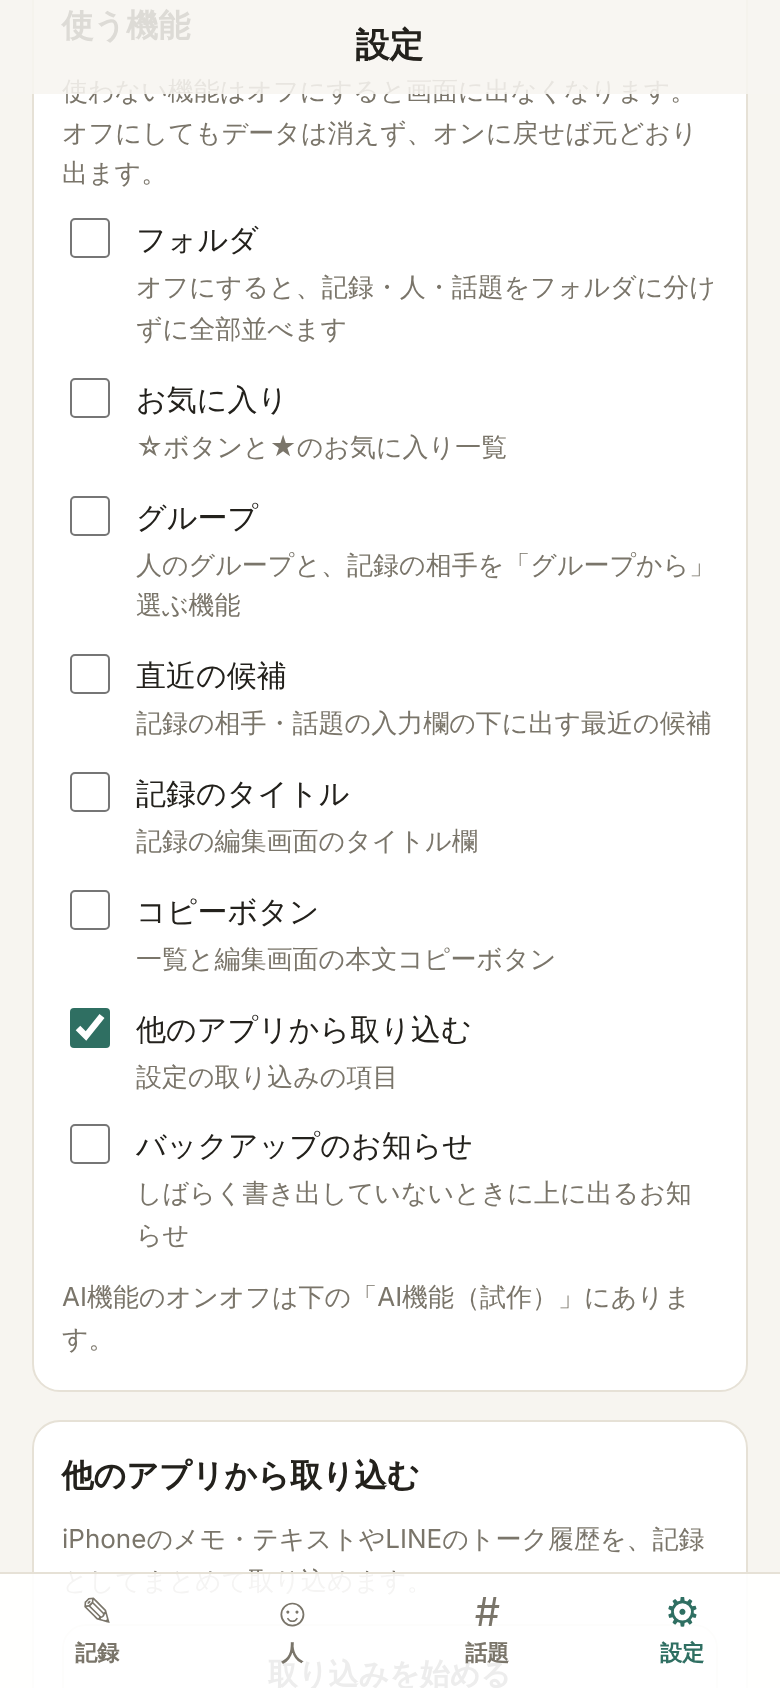
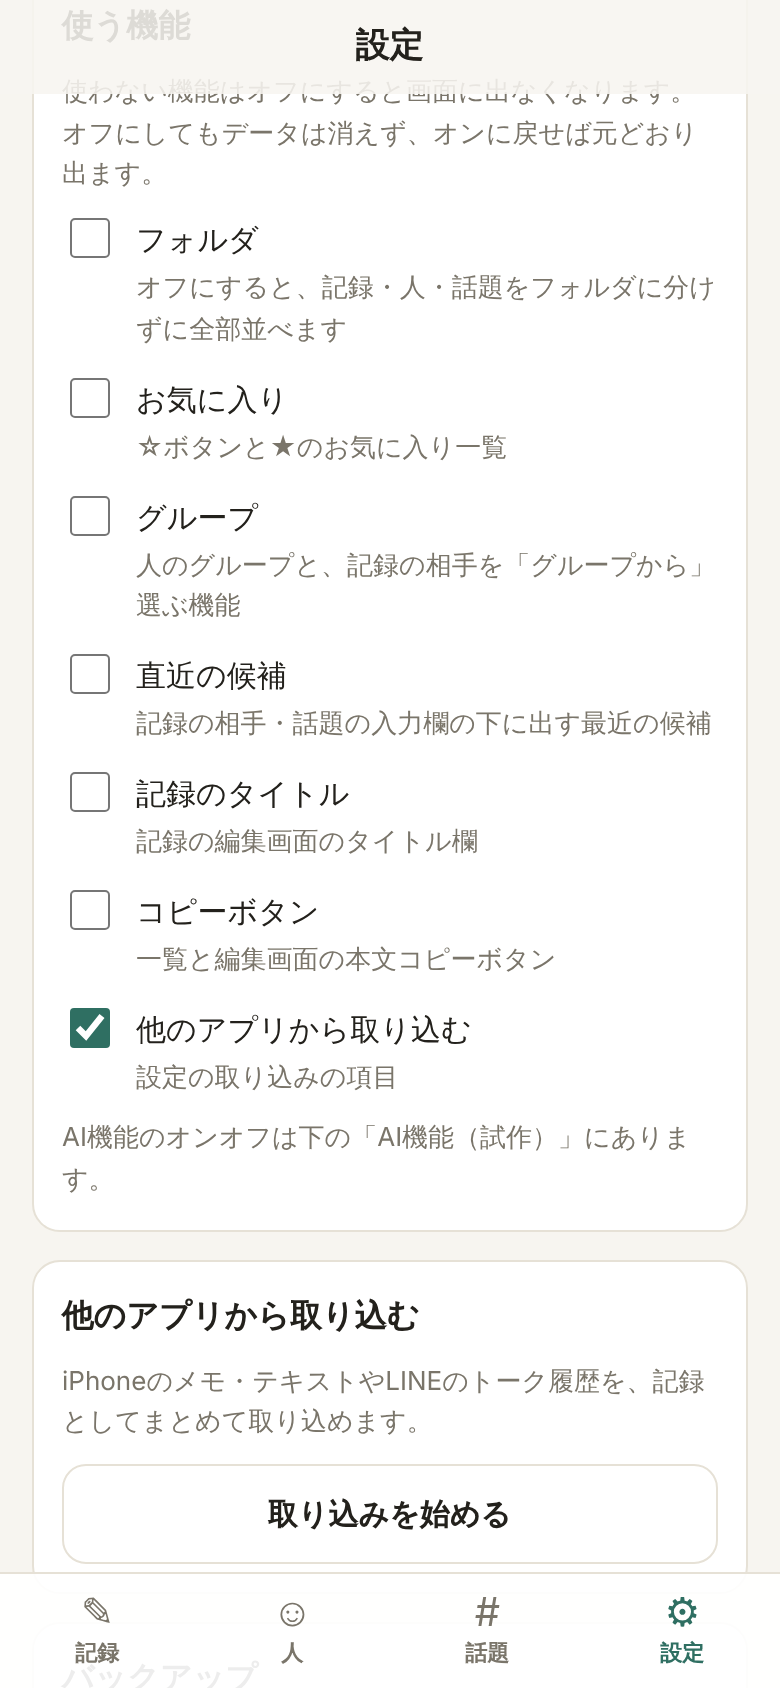
人の一覧からグループのチップへドラッグで追加できるようにし、バックアップのお知らせを削除する
Claude-Session: https://claude.ai/code/session_01QRm74mdfM7JqRvAGMi6EP6

diff --git a/src/ui/interact.tsx b/src/ui/interact.tsx
@@ -344,7 +344,7 @@ export function Sheet({ title, onClose, children }: { title?: string; onClose: (
 }
 
 // ---------------- ドラッグ&ドロップ ----------------
-interface Drag { item: ItemRef; x: number; y: number; over: { id: ID | null; name: string } | null; overEl?: HTMLElement | null }
+interface Drag { item: ItemRef; x: number; y: number; over: { id: ID | null; name: string; group?: boolean } | null; overEl?: HTMLElement | null }
 let drag: Drag | null = null;
 const dragListeners = new Set<() => void>();
 let hotEl: HTMLElement | null = null;
@@ -364,7 +364,9 @@ const useDrag = () => useSyncExternalStore((l) => { dragListeners.add(l); return
 
 /** ドロップ先を探す: data-drop(フォルダID or 'root') と data-drop-scope を持つ要素 */
 function dropTarget(x: number, y: number, item: ItemRef) {
-  const el = document.elementFromPoint(x, y)?.closest<HTMLElement>('[data-drop]');
+  const el = document.elementFromPoint(x, y)?.closest<HTMLElement>('[data-drop],[data-drop-group]');
+  // 人はグループのチップにも落とせる(グループに追加。フォルダは変わらない)
+  if (el?.dataset.dropGroup) return item.kind === 'person' ? { id: el.dataset.dropGroup, name: el.dataset.dropName ?? '', el, group: true } : null;
   if (!el || el.dataset.dropScope !== item.scope) return null;
   const id = el.dataset.drop === 'root' ? null : el.dataset.drop!;
   if (item.kind === 'folder' && id === item.id) return null;
@@ -399,12 +401,15 @@ function DragLayer() {
   return (
     <div className="drag-ghost" style={{ left: d.x, top: d.y }}>
       {d.item.kind === 'folder' ? '▤ ' : ''}{d.item.label}
-      {d.over && <span className="drag-to">→ {d.over.name}</span>}
+      {d.over && <span className="drag-to">{d.over.group ? '＋' : '→'} {d.over.name}</span>}
     </div>
   );
 }
 
 /** ドロップ先の要素につける属性 */
+/** 人を落とせるグループのチップにつける属性 */
+export const groupDropProps = (id: ID, name: string) => ({ 'data-drop-group': id, 'data-drop-name': name });
+
 export const dropProps = (scope: FolderScope, id: ID | null, name: string) => ({
   'data-drop': id ?? 'root',
   'data-drop-scope': scope,
@@ -461,7 +466,7 @@ export function usePress(item: ItemRef, onTap: () => void) {
     if (s.dragging) {
       const it = latest.current.item;
       const t = dropTarget(x, y, it);
-      setDrag({ item: it, x, y, over: t && { id: t.id, name: t.name }, overEl: t?.el });
+      setDrag({ item: it, x, y, over: t && { id: t.id, name: t.name, group: 'group' in t }, overEl: t?.el });
     }
   };
   const finishNow = async (cancel: boolean) => {
@@ -479,7 +484,11 @@ export function usePress(item: ItemRef, onTap: () => void) {
       if (over && !cancel) {
         const { item: it, sel: sl } = latest.current;
         const items = sl.active && sl.selected.has(itemKey(it)) ? [...sl.selected.values()] : [it];
-        await moveTo(store, items.filter((i) => i.scope === it.scope), over.id, over.name);
+        if (over.group && over.id) {
+          const people = items.filter((i) => i.kind === 'person').map((i) => i.id);
+          await store.setGroupMembers(over.id, people, true);
+          toast(t('「{name}」に追加しました', { name: over.name }));
+        } else await moveTo(store, items.filter((i) => i.scope === it.scope), over.id, over.name);
       }
     } else if (wasLifted && !cancel) {
       s.suppress = true;

diff --git a/src/ui/App.tsx b/src/ui/App.tsx
@@ -1,15 +1,13 @@
 import { lazy, Suspense } from 'react';
 import { OrganizeScreen } from './OrganizeScreen';
 import type { Store } from '../core/store';
-import { StoreContext, go, switchTab, useData, useLoadFailed, useLoaded, useRoute, useStore } from './hooks';
+import { StoreContext, go, switchTab, useLoadFailed, useLoaded, useRoute, useStore } from './hooks';
 import { InteractProvider, useInteract } from './interact';
 import { TrashScreen, AllEntriesScreen, FolderScreen, NameAllScreen, NameFolderScreen, PersonScreen, TopicScreen } from './screens';
 import { EntryEditor } from './EntryEditor';
 import { GroupScreen } from './groups';
 import { SettingsScreen } from './SettingsScreen';
-import { needsBackupReminder } from './backupUi';
 import { t, useLang } from '../i18n';
-import { useFeatures } from './features';
 
 // 取り込み画面は開いたときだけ読み込む(普段の起動を重くしない)
 const ImportScreen = lazy(() => import('./ImportScreen'));
@@ -35,10 +33,8 @@ export function App({ store }: { store: Store }) {
 
 function Shell() {
   const loaded = useLoaded();
-  const data = useData();
   const { path, query } = useRoute();
   const selecting = useInteract().sel.active;
-  const feat = useFeatures();
   const [head, sub] = path;
 
   if (!loaded) return <Loading />;
@@ -80,15 +76,9 @@ function Shell() {
 
   const tab = head === 'f' || head === 'all' || head === 'fav' || head === 'trash' ? '' : head === 'import' ? 'settings' : (head ?? '');
   const showFab = !selecting && head !== 'settings' && head !== 'import' && head !== 'organize' && head !== 'trash' && (!sub || head === 'f' || sub === 'f' || sub === 'all' || sub === 'fav');
-  const remind = head !== 'settings' && head !== 'import' && feat.backupReminder && needsBackupReminder(data);
 
   return (
     <div className="app">
-      {remind && (
-        <button className="reminder" onClick={() => go('/settings')}>
-          {t('しばらくバックアップしていません。設定から書き出しておきましょう ›')}
-        </button>
-      )}
       <main className="main">{screen}</main>
       {showFab && (
         <button className="fab" aria-label={t('記録を追加')} onClick={() => {

diff --git a/src/ui/features.ts b/src/ui/features.ts
@@ -17,11 +17,9 @@ export interface Features {
   copy: boolean;
   /** 設定の「他のアプリから取り込む」 */
   import: boolean;
-  /** しばらくバックアップしていないときの上部のお知らせ */
-  backupReminder: boolean;
 }
 
-export const FEATURE_KEYS = ['folders', 'favorites', 'groups', 'recent', 'title', 'copy', 'import', 'backupReminder'] as const;
+export const FEATURE_KEYS = ['folders', 'favorites', 'groups', 'recent', 'title', 'copy', 'import'] as const;
 
 /** 設定画面に出す名前と説明(表示時に t() を通す) */
 export const FEATURE_LABELS: Record<keyof Features, { label: string; note: string }> = {
@@ -32,11 +30,10 @@ export const FEATURE_LABELS: Record<keyof Features, { label: string; note: strin
   title: { label: '記録のタイトル', note: '記録の編集画面のタイトル欄' },
   copy: { label: 'コピーボタン', note: '一覧と編集画面の本文コピーボタン' },
   import: { label: '他のアプリから取り込む', note: '設定の取り込みの項目' },
-  backupReminder: { label: 'バックアップのお知らせ', note: 'しばらく書き出していないときに上に出るお知らせ' },
 };
 
 const KEY = 'kaiwa-shisan:features';
-const DEFAULTS: Features = { folders: true, favorites: true, groups: true, recent: true, title: true, copy: true, import: true, backupReminder: true };
+const DEFAULTS: Features = { folders: true, favorites: true, groups: true, recent: true, title: true, copy: true, import: true };
 
 const load = (): Features => {
   try {

diff --git a/src/ui/styles.css b/src/ui/styles.css
@@ -162,9 +162,6 @@ button:disabled { opacity: .4; cursor: default; }
 .stats b { font-size: 22px; }
 .stats span { font-size: 12px; color: var(--muted); }
 
-.reminder { display: block; width: calc(100% - 32px); margin: calc(var(--safe-t) + 8px) 16px 0; padding: 8px 12px; border-radius: 10px; background: var(--topic-soft); color: var(--topic); font-size: 13px; text-align: left; }
-.reminder + .main .header { padding-top: 10px; }
-
 .fab {
   position: fixed; z-index: 10;
   right: max(18px, calc(50vw - 340px + 18px));
@@ -376,7 +373,6 @@ body.dragging { cursor: grabbing; }
   .fab { right: max(32px, calc((100vw - var(--rail) - 760px) / 2 + 24px)); bottom: 32px; }
   .select-bar { left: var(--rail); bottom: 0; padding-left: max(24px, calc((100vw - var(--rail) - 760px) / 2 + 24px)); padding-right: max(24px, calc((100vw - var(--rail) - 760px) / 2 + 24px)); }
   .toast { bottom: 110px; margin-left: calc(var(--rail) / 2); }
-  .reminder { width: auto; margin: 16px 0 0; }
 
   .card:hover, .row-item:hover { border-color: color-mix(in srgb, var(--accent) 40%, var(--line)); }
   .row-item:hover { background: color-mix(in srgb, var(--bg) 60%, var(--surface)); }

diff --git a/src/i18n/en.ts b/src/i18n/en.ts
@@ -15,7 +15,6 @@ const en: Record<string, string> = {
   'データを読み込めませんでした': "Couldn't load your data",
   'もう一度読み込む': 'Try again',
   'アプリを再読み込み': 'Reload app',
-  'しばらくバックアップしていません。設定から書き出しておきましょう ›': "You haven't backed up in a while. Export one from Settings ›",
   '記録を追加': 'Add note',
   '戻る': 'Back',
   '‹ 戻る': '‹ Back',
@@ -338,8 +337,6 @@ const en: Record<string, string> = {
   'コピーボタン': 'Copy buttons',
   '一覧と編集画面の本文コピーボタン': 'Buttons that copy the note text, in lists and the editor',
   '設定の取り込みの項目': 'The import section in Settings',
-  'バックアップのお知らせ': 'Backup reminder',
-  'しばらく書き出していないときに上に出るお知らせ': "The notice at the top when you haven't exported in a while",
 };
 
 export default en;

diff --git a/src/ui/groups.tsx b/src/ui/groups.tsx
@@ -4,6 +4,7 @@ import { NAME_SORTS, normalize, type NameSort } from '../core/search';
 import { back, go, useData, usePref, useStore } from './hooks';
 import { ComboPicker, Header, SortSelect } from './components';
 import { NameRows, useNameItems } from './screens';
+import { groupDropProps } from './interact';
 import { t } from '../i18n';
 
 // 人のグループ。フォルダ(1人1か所・入れ子)と違い、タグのように1人を複数のグループに入れられる。
@@ -60,7 +61,7 @@ export function GroupBar() {
       ) : (
         <div className="chips folders">
           {groups.map((g) => (
-            <button key={g.id} className="chip group" onClick={() => go(groupHref(g.id))}>
+            <button key={g.id} className="chip group" {...groupDropProps(g.id, g.name)} onClick={() => go(groupHref(g.id))}>
               {g.name} <span className="n">{counts.get(g.id) ?? 0}</span>
             </button>
           ))}

diff --git a/src/ui/backupUi.ts b/src/ui/backupUi.ts
@@ -43,9 +43,3 @@ export async function exportBackup(data: AppData): Promise<'shared' | 'downloade
   markBackup();
   return 'downloaded';
 }
-
-export const needsBackupReminder = (data: AppData) => {
-  if (data.entries.length < 5) return false;
-  const last = getLastBackup();
-  return !last || Date.now() - last > 14 * 24 * 3600 * 1000;
-};
